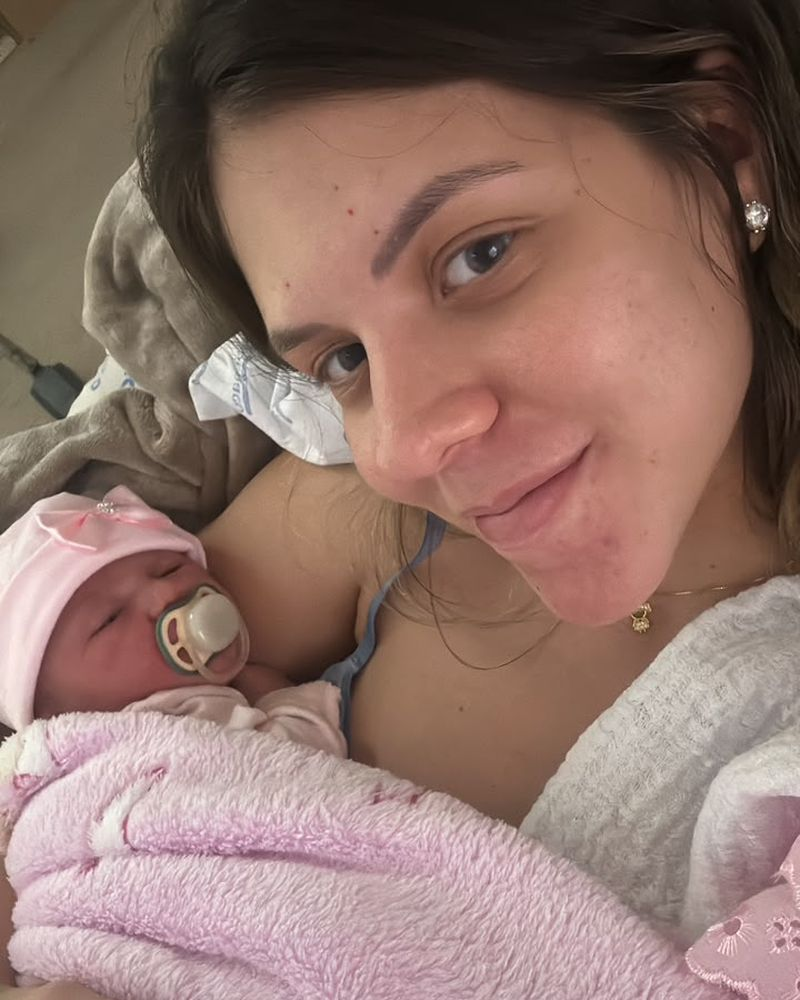
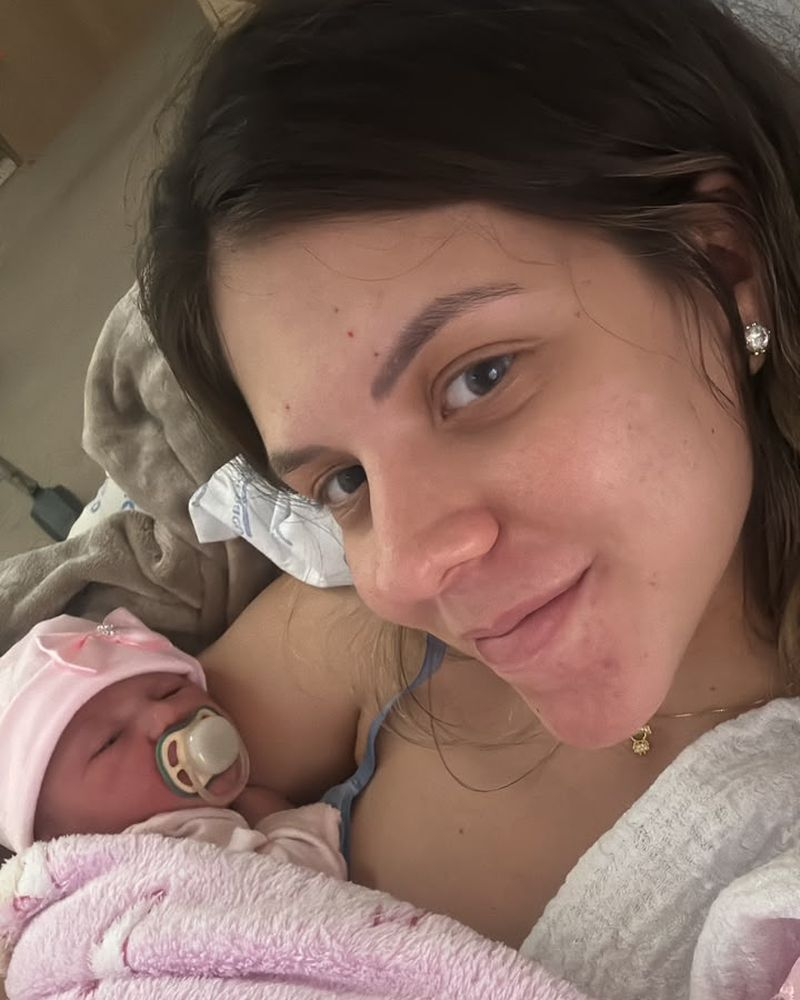
Tidy the story timeline until the missing photos arrive
The positive-test and pregnancy chapters showed dashed "photo missing"
boxes; they now show the pomegranate and pregnant-figure illustrations
in the same arched frame as the photos, so the timeline reads as
finished. The birth photo is re-cropped to keep Bea's forehead inside
the arch, and chapter photos are smaller on phones (15rem) so the
timeline is less long.

Claude-Session: https://claude.ai/code/session_01TRBc9GS3HTtQsgVpvexEi7

diff --git a/index.html b/index.html
@@ -256,9 +256,8 @@
         <ol class="capitulos">
           <li class="capitulo">
             <!-- PREENCHER: foto do teste positivo (img/historia-positivo.jpg) -->
-            <div class="capitulo-foto capitulo-foto-vazia placeholder">
-              <svg viewBox="0 0 120 120" aria-hidden="true"><use href="#il-roma" width="120" height="120"/></svg>
-              <span>Foto do teste positivo</span>
+            <div class="capitulo-foto capitulo-foto-vazia" aria-hidden="true">
+              <svg viewBox="0 0 120 120"><use href="#il-roma" width="120" height="120"/></svg>
             </div>
             <div class="capitulo-texto">
               <p class="capitulo-quando">O positivo</p>
@@ -268,9 +267,8 @@
           </li>
           <li class="capitulo">
             <!-- PREENCHER: foto da gestação (img/historia-gestacao.jpg) -->
-            <div class="capitulo-foto capitulo-foto-vazia placeholder">
-              <svg viewBox="0 0 160 240" aria-hidden="true"><use href="#fig-gestante" width="160" height="240"/></svg>
-              <span>Foto da gestação</span>
+            <div class="capitulo-foto capitulo-foto-vazia" aria-hidden="true">
+              <svg viewBox="0 0 160 240"><use href="#fig-gestante" width="160" height="240"/></svg>
             </div>
             <div class="capitulo-texto">
               <p class="capitulo-quando">A gestação</p>

diff --git a/style.css b/style.css
@@ -1098,9 +1098,9 @@ a {
 }
 
 .capitulo-foto-vazia svg {
-  width: 40%;
+  width: 46%;
   height: auto;
-  max-height: 55%;
+  max-height: 62%;
 }
 
 .capitulo-texto {
@@ -2099,7 +2099,7 @@ button.botao {
   .capitulo:nth-child(even) .capitulo-foto {
     order: 0;
     justify-self: start;
-    max-width: 18rem;
+    max-width: 15rem;
   }
 
   .capitulo:nth-child(even) .capitulo-texto {
